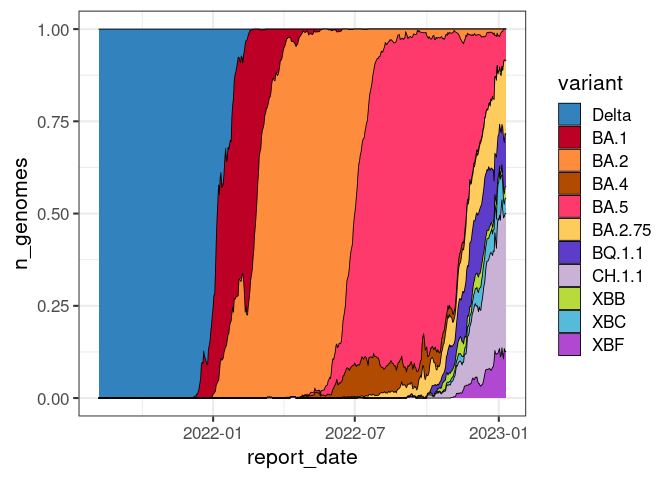
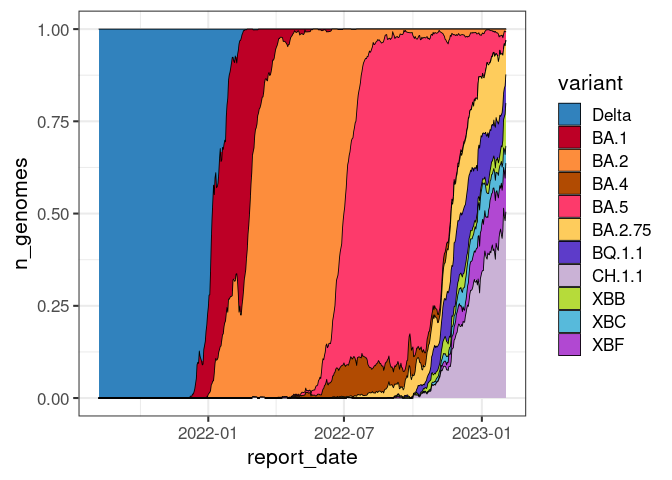
Belated variant update

diff --git a/README.md b/README.md
@@ -1,33 +1,19 @@
 
-:calendar: This repository will not be updated between December 23rd and
-Jan 13th 2023.
-
 # Prevelence of SARS-CoV-2 Variants of Concern in Aoteoroa New Zealand
 
-The `data/` directory contains four csv files, providing rolling 7-day
-averages of genomic results. These include two frequently update files.
+The `data/` directory contain `all_variant_counts.csv`, whichincludes lineage data from all samples sequenced by ESR since the August 2021 Delta outbreak.
 
--   `all_variant_counts.csv`, which includes lineage data from all
-    samples sequenced by ESR since the August 2021 Delta outbreak.
--   `rbd_levels.csv`, which includes information on the number of key
-    mutations observed in the receptor binding domain of the spike
-    protein. Higher values of this measure are [associated with
-    increased immune
-    evasiveness](https://virological.org/t/sars-cov-2-evolution-post-omicron/911).
+In addition the `data/archived` subdirectory contans no-longer updated files
 
-In addition two files are provided but no longer updated.
+-   `rbd_levels.csv`, which includes information on the number of key mutations observed in the receptor binding domain of the spike protein. Higher values of this measure are [associated with increased immune evasiveness](https://virological.org/t/sars-cov-2-evolution-post-omicron/911). This data was part of ESR's reporting in late 2022.
 
-`community_variant_counts.csv` and `border_variant_counts.csv` break
-down the lineage data into those cases associated with
-community-acquired infections and border-associated infections
-respectively. Border and community cases can no longer be reliably
-differentiated, so this data is no longer updated.
+-   `community_variant_counts.csv` and `border_variant_counts.csv` break down the lineage data into those cases associated with community-acquired infections and border-associated infections respectively. Border and community cases can no longer be reliably differentiated, so this data is no longer updated.
 
 ## Example
 
 A brief example of how the data might be used, using the R language.
 
-``` r
+``` {.r}
 library(lubridate)
 library(tidyr)
 library(ggplot2)
@@ -38,7 +24,7 @@ voc$report_date <- ymd(voc$report_date)
 tidy_voc <- pivot_longer(voc, !report_date, names_to = "variant", values_to = "n_genomes")
 
 order_of_arrival <- c("Delta", "BA.1", "BA.2", "BA.5", "BA.4", "BA.2.75", 
-"BQ.1.1", "XBB", "XBC")
+"BQ.1.1", "XBB", "XBC", "XBF")
 
 tidy_voc$variant <- fct_relevel(tidy_voc$variant, order_of_arrival)
 
@@ -62,10 +48,8 @@ ggplot(tidy_voc, aes(report_date, n_genomes, fill=variant)) +
     theme_bw(base_size = 16)  
 ```
 
-![](images/plot-1.png)<!-- -->
+![](images/plot-1.png)
 
 ## License
 
-The data is released under a [CC-BY 4.0 international
-license](https://creativecommons.org/licenses/by/4.0/). You are free to
-copy, distribute or adapt this data as long as you acknowledge ESR.
+The data is released under a [CC-BY 4.0 international license](https://creativecommons.org/licenses/by/4.0/). You are free to copy, distribute or adapt this data as long as you acknowledge ESR.
